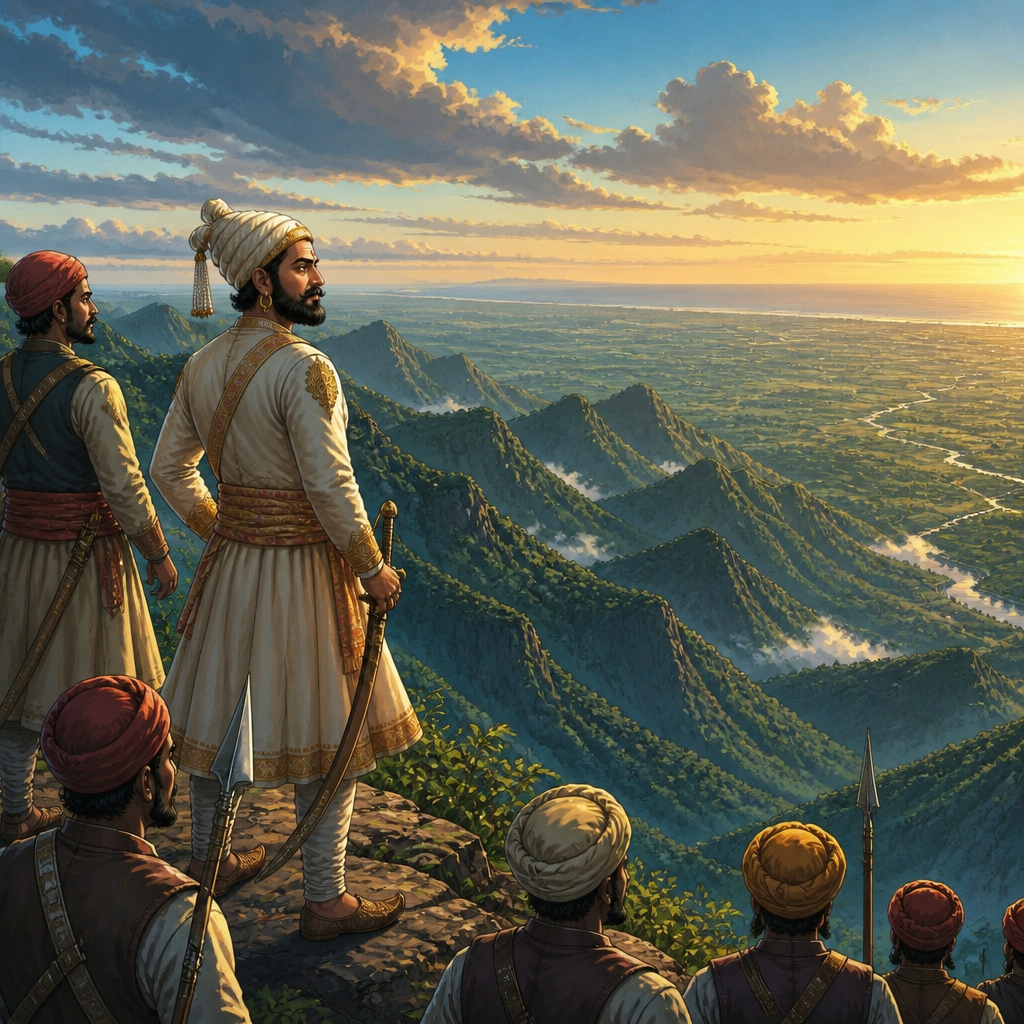
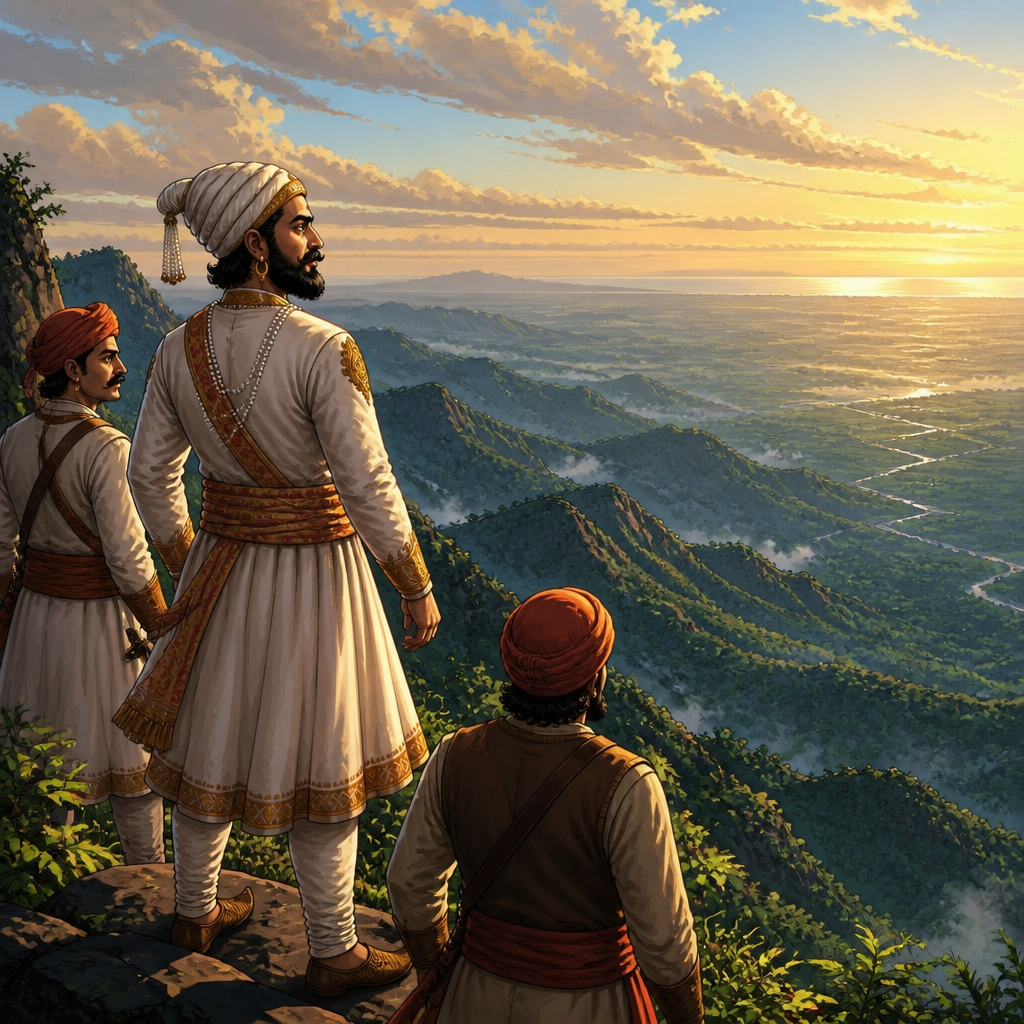
Fix ch19 sea image: single jiretop tassel (was rendering a double tassel)

diff --git a/docs/ch19.html b/docs/ch19.html
@@ -56,12 +56,12 @@
     <div class="series">Chhatrapati Shivaji &middot; Volume 1 &middot; The Boy of Shivneri</div>
     <h1>Chapter 19 — Into Javli</h1>
   </header>
-  <section class="references"><h2>Who &amp; Where in this chapter</h2><h3>Places</h3><div class="refgrid"><figure class="refcard"><img loading="lazy" src="https://hel1.your-objectstorage.com/openclaw83/shivaji/reference/locations/raigad-hill.png?v=1781083100" alt="Raigad (the hill Rairi, wild/unbuilt)"><figcaption><strong>Raigad (the hill Rairi, wild/unbuilt)</strong><span class="reftype">location</span><span class="refdesc">The colossal lonely hill then called Rairi — later rebuilt as the great fortress of Raigad, but shown here STILL WILD AND UNBUILT, with NO fort, NO ramparts and NO buildings on it yet.</span></figcaption></figure>
-<figure class="refcard"><img loading="lazy" src="https://hel1.your-objectstorage.com/openclaw83/shivaji/reference/locations/konkan-coast.png?v=1781083100" alt="The Konkan and the sea (seen from the hills)"><figcaption><strong>The Konkan and the sea (seen from the hills)</strong><span class="reftype">location</span><span class="refdesc">The view westward from the high western edge of the Sahyadri mountains, looking down and out over the Konkan: ridge after forested ridge tumbling steeply downward and away, opening into a vast hazy green coastal lowland that stretches to the horizon, and far out beyond it a thin, bright, silver line — the distant Arabian Sea — catching the light.</span></figcaption></figure></div></section>
+  <section class="references"><h2>Who &amp; Where in this chapter</h2><h3>Places</h3><div class="refgrid"><figure class="refcard"><img loading="lazy" src="https://hel1.your-objectstorage.com/openclaw83/shivaji/reference/locations/raigad-hill.png?v=1781084337" alt="Raigad (the hill Rairi, wild/unbuilt)"><figcaption><strong>Raigad (the hill Rairi, wild/unbuilt)</strong><span class="reftype">location</span><span class="refdesc">The colossal lonely hill then called Rairi — later rebuilt as the great fortress of Raigad, but shown here STILL WILD AND UNBUILT, with NO fort, NO ramparts and NO buildings on it yet.</span></figcaption></figure>
+<figure class="refcard"><img loading="lazy" src="https://hel1.your-objectstorage.com/openclaw83/shivaji/reference/locations/konkan-coast.png?v=1781084337" alt="The Konkan and the sea (seen from the hills)"><figcaption><strong>The Konkan and the sea (seen from the hills)</strong><span class="reftype">location</span><span class="refdesc">The view westward from the high western edge of the Sahyadri mountains, looking down and out over the Konkan: ridge after forested ridge tumbling steeply downward and away, opening into a vast hazy green coastal lowland that stretches to the horizon, and far out beyond it a thin, bright, silver line — the distant Arabian Sea — catching the light.</span></figcaption></figure></div></section>
   <article>
   <p>No army had ever crossed Javli. That was the first thing anyone told you about the forest, and they told it the way you tell a thing that has always been true and always will be. Big armies went <em>around</em> Javli, the long way, the slow way, because to go <em>through</em> it was to be swallowed by trees and ravines and a thousand silent men who knew every root and you knew none.</p>
 <p>Shivaji stood at the edge of it in the grey cold of a January dawn, and prepared to do the thing that could not be done.</p>
-<figure class="event hero"><img loading="lazy" src="https://hel1.your-objectstorage.com/openclaw83/shivaji/events/ch19/ch19-into-the-forest.png?v=1781083100" alt="The forest no army could cross"><figcaption>The forest no army could cross</figcaption></figure>
+<figure class="event hero"><img loading="lazy" src="https://hel1.your-objectstorage.com/openclaw83/shivaji/events/ch19/ch19-into-the-forest.png?v=1781084337" alt="The forest no army could cross"><figcaption>The forest no army could cross</figcaption></figure>
 <p>It had already begun, and it had begun hard.</p>
 <p>The chief of Javli, proud Chandrarao More, was dead. The breaking of the forest kingdom had opened not with a clean battle but with a killing — the kind of dark, close, deliberate thing that Shivaji had promised, by the fire, never to dress up as glory. He did not dress it up now. He carried it instead, like a stone in the chest, and he gave the order to march, because the road west ran through these trees and there was no longer any other road at all.</p>
 <p>&quot;Quiet now,&quot; he told his men. &quot;The forest is listening.&quot;</p>
@@ -74,7 +74,7 @@
 <p>Bahirji Naik&#x27;s quiet travellers had been drifting through Javli for months, and they had not come back with rumours. They had come back with the <em>truth</em> of the place — which trails were watched and which were forgotten, where the streams could be forded, where the forest thinned enough for armed men to slip through. Shivaji went into Javli already knowing it better than some of the men defending it.</p>
 <p>&quot;They think the forest is a wall,&quot; he said to Tanaji, low, as they moved. &quot;It was a wall — against strangers. We are not strangers here.&quot;</p>
 <p>Tanaji grinned in the half-light, a big fierce grin. &quot;No,&quot; he said. &quot;We&#x27;re at home.&quot;</p>
-<figure class="event"><img loading="lazy" src="https://hel1.your-objectstorage.com/openclaw83/shivaji/events/ch19/ch19-we-are-at-home.png?v=1781083100" alt="We&#x27;re at home"><figcaption>We&#x27;re at home</figcaption></figure>
+<figure class="event"><img loading="lazy" src="https://hel1.your-objectstorage.com/openclaw83/shivaji/events/ch19/ch19-we-are-at-home.png?v=1781084337" alt="We&#x27;re at home"><figcaption>We&#x27;re at home</figcaption></figure>
 <p>And it was true. Where a marching column would have blundered and snapped twigs and shouted itself lost, Shivaji&#x27;s men flowed. They went single file along trails too thin to see, hands passing word back down the line without a sound. When a guide raised a fist, the whole column froze and became part of the forest until he opened it again. They forded the cold streams where Bahirji&#x27;s people had marked the stones, and climbed the ravines on roots like ladders, and the great dark trees that were supposed to swallow them simply let them pass.</p>
 <p>&quot;How far?&quot; Shivaji breathed once, at a halt, to the lean local man guiding them — a Maval who had hunted this country since he was a boy.</p>
 <p>The man pointed his chin deeper into the green. &quot;Close,&quot; he murmured. &quot;By midday we&#x27;ll be somewhere no outside army has ever stood.&quot; He almost smiled. &quot;They&#x27;ve watched the big roads for a hundred years. Nobody ever taught them to watch the deer-paths.&quot;</p>
@@ -86,14 +86,14 @@
 <hr class="scene">
 <p>Shivaji walked through the conquered country in the days after, and he was very quiet.</p>
 <p>His flag flew over the Mores&#x27; strongholds now. The locked gate at the bottom of his map was open. Everything he had needed Javli <em>for</em> — the roads west, the way down out of the high hills — lay before him, his at last.</p>
-<figure class="event"><img loading="lazy" src="https://hel1.your-objectstorage.com/openclaw83/shivaji/events/ch19/ch19-javli-falls.png?v=1781083100" alt="Javli had fallen"><figcaption>Javli had fallen</figcaption></figure>
+<figure class="event"><img loading="lazy" src="https://hel1.your-objectstorage.com/openclaw83/shivaji/events/ch19/ch19-javli-falls.png?v=1781084337" alt="Javli had fallen"><figcaption>Javli had fallen</figcaption></figure>
 <p>But he had not won it the way he had won Torna, with a sleeping garrison and a bloodless dawn. He had not won it the way he had won Kondhana, with a cup of tea and a key set on a table. He had won it the hard, dark way, against people who were not so different from his own, and he made himself look at that and not look away.</p>
 <p>&quot;Remember how this one cost,&quot; he told his companions, and there was no triumph in his voice at all. &quot;When the singers come — and they will come — let them sing the easy victories. Not this. This we carry honestly, or we have learned nothing.&quot;</p>
 <p>It was, perhaps, the most kingly thing he had ever said. A smaller man wins and forgets the price. Shivaji won, and made certain he remembered it.</p>
 <hr class="scene">
 <p>And then he went west, to see what the open gate had given him.</p>
 <p>The high hills fell away beneath his feet, ridge after ridge tumbling down and down toward a hazy green vastness he had never stood above before — the <em>Konkan</em>, the long coastal lowland, and somewhere out past the edge of it, silver and impossibly far, a thin bright line that was the sea.</p>
-<figure class="event"><img loading="lazy" src="https://hel1.your-objectstorage.com/openclaw83/shivaji/events/ch19/ch19-the-sea.png?v=1781083100" alt="A kingdom that could reach the sea"><figcaption>A kingdom that could reach the sea</figcaption></figure>
+<figure class="event"><img loading="lazy" src="https://hel1.your-objectstorage.com/openclaw83/shivaji/events/ch19/ch19-the-sea.png?v=1781084337" alt="A kingdom that could reach the sea"><figcaption>A kingdom that could reach the sea</figcaption></figure>
 <p>The sea.</p>
 <p>For his whole life his world had been the high hills — forts and valleys and the great Deccan sky. But a kingdom that could reach the sea was a different kind of kingdom altogether. Ships. Trade. Salt and goods and wealth flowing in from across the water. A door that no enemy on land could ever quite close.</p>
 <p>He stood looking at that far bright line for a long time, and his companions saw something new in his face — not a boy counting forts anymore, but a man beginning to measure a country.</p>
@@ -105,7 +105,7 @@
 <p>He stood at the foot of it and tipped his head back and looked up, and up, and he did not say anything for a long while. The old name of the hill was Rairi. The men waited, shifting, glancing at one another, because they knew that look by now — it was the look he got when he saw not what a thing <em>was</em>, but what it could <em>become</em>.</p>
 <p>&quot;What is it?&quot; Tanaji asked at last.</p>
 <p>&quot;I don&#x27;t know yet,&quot; Shivaji said quietly, his eyes still climbing those cliffs. &quot;But I think… I think it might be the heart of everything.&quot;</p>
-<figure class="event hero"><img loading="lazy" src="https://hel1.your-objectstorage.com/openclaw83/shivaji/events/ch19/ch19-raigad.png?v=1781083100" alt="The heart of everything"><figcaption>The heart of everything</figcaption></figure>
+<figure class="event hero"><img loading="lazy" src="https://hel1.your-objectstorage.com/openclaw83/shivaji/events/ch19/ch19-raigad.png?v=1781084337" alt="The heart of everything"><figcaption>The heart of everything</figcaption></figure>
 <p>He did not have the words for it that day, standing in the mud at the bottom of the great hill with the smell of the new forest still on him. He could not have known that one day a king would be crowned on that flat and distant summit, that this lonely mountain would become the proudest fortress in the land and the capital of a free people. He only knew that something in him had recognised the place, the way you sometimes recognise a face you have not met yet.</p>
 <p>He looked at it until the light began to go. Then he turned his horse, with the shape of it printed behind his eyes, and rode back toward his hills.</p>
 <hr class="scene">

diff --git a/docs/index.html b/docs/index.html
@@ -18,7 +18,7 @@
   a:hover { text-decoration:underline; }
 </style></head>
 <body>
-  <img class="cover" src="https://hel1.your-objectstorage.com/openclaw83/shivaji/cover/cover.png?v=1781083110" alt="The Boy of Shivneri — cover">
+  <img class="cover" src="https://hel1.your-objectstorage.com/openclaw83/shivaji/cover/cover.png?v=1781084337" alt="The Boy of Shivneri — cover">
   <h2 class="toc">Contents</h2>
   <ul><li><a href="ch01.html">Chapter 1 — The Road to Shivneri</a></li>
 <li><a href="ch02.html">Chapter 2 — A Boy Among Soldiers</a></li>